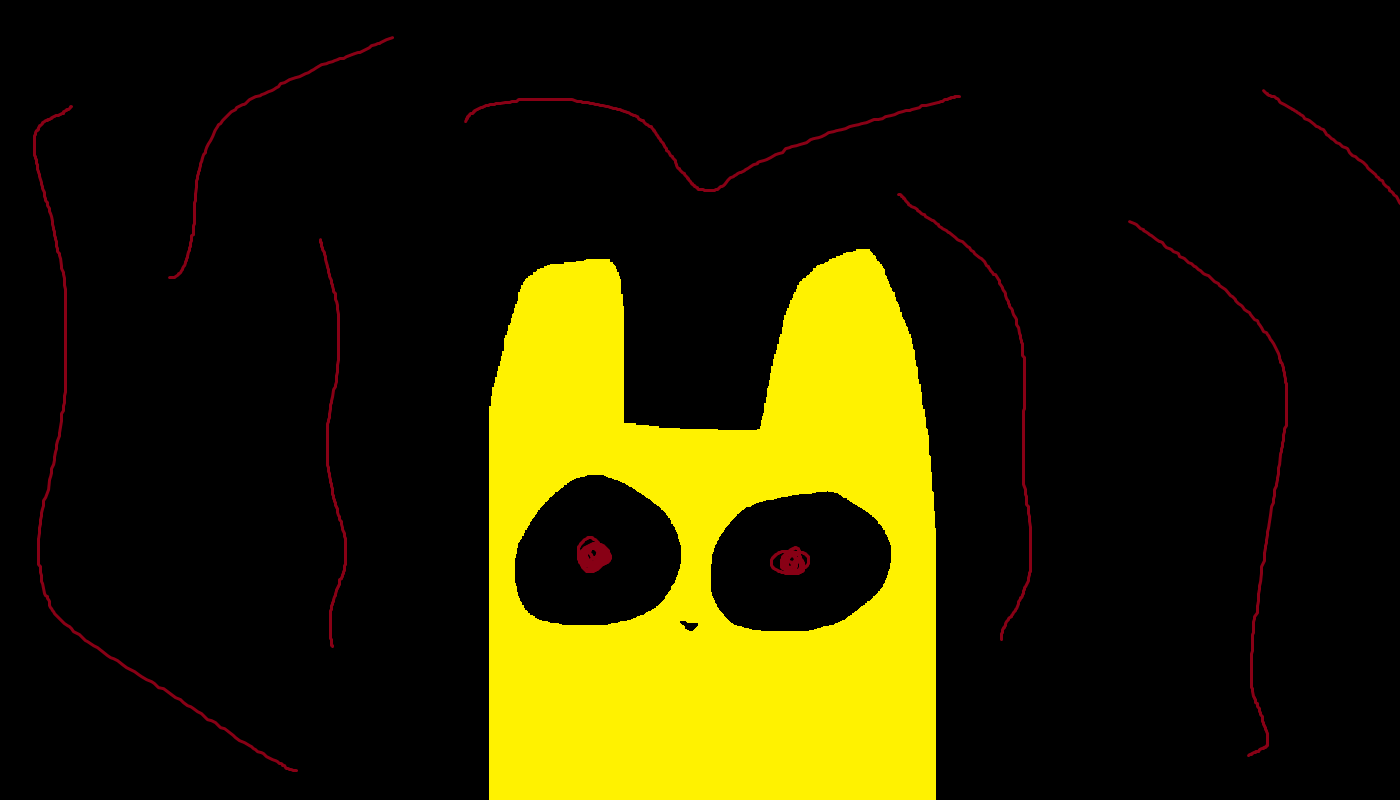
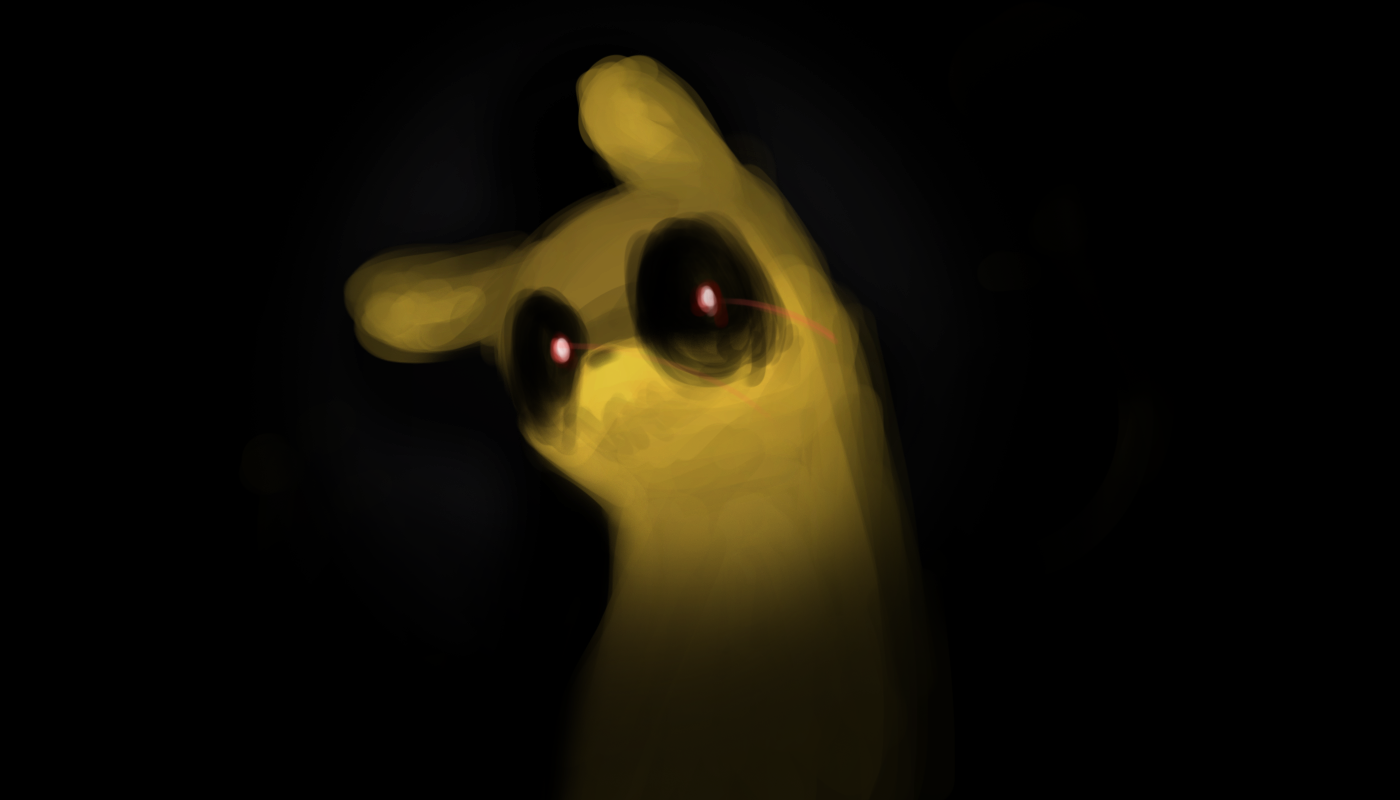
Select screen and jumpscare art

diff --git a/src/Hooks/MenuHooks.cs b/src/Hooks/MenuHooks.cs
@@ -1,0 +1,73 @@
+using System;
+using System.Runtime.CompilerServices;
+using FCAP.Screens;
+using Menu;
+using Mono.Cecil.Cil;
+using MonoMod.Cil;
+using UnityEngine;
+
+namespace FCAP.Hooks
+{
+    internal static class MenuHooks
+    {
+        private static readonly ConditionalWeakTable<InteractiveMenuScene, NightguardMenuController> menuCWT = new();
+
+        public static void Apply()
+        {
+            On.Menu.MenuScene.BuildScene += MenuScene_BuildScene;
+            On.Menu.InteractiveMenuScene.Update += InteractiveMenuScene_Update;
+            On.Menu.MenuScene.UnloadImages += MenuScene_UnloadImages;
+        }
+
+        private static void MenuScene_UnloadImages(On.Menu.MenuScene.orig_UnloadImages orig, MenuScene self)
+        {
+            if (self is InteractiveMenuScene ims && menuCWT.TryGetValue(ims, out _))
+            {
+                menuCWT.Remove(ims);
+            }
+            orig(self);
+        }
+
+        private static void InteractiveMenuScene_Update(On.Menu.InteractiveMenuScene.orig_Update orig, InteractiveMenuScene self)
+        {
+            orig(self);
+            if (menuCWT.TryGetValue(self, out var controller))
+            {
+                controller.Update();
+            }
+        }
+
+        private static void MenuScene_BuildScene(On.Menu.MenuScene.orig_BuildScene orig, MenuScene self)
+        {
+            orig(self);
+
+            Plugin.Logger.LogDebug(self.sceneID?.value);
+            if (self.sceneID == Constants.NightguardMenu)
+            {
+                self.sceneFolder = "scenes/slugcat_nightguard";
+
+                if (self.flatMode)
+                {
+                    self.AddIllustration(new MenuIllustration(self.menu, self, self.sceneFolder, "nightguard flat", new Vector2(683f, 384f), false, true));
+                }
+                else
+                {
+                    var menuController = new NightguardMenuController(self as InteractiveMenuScene);
+                    self.AddIllustration(menuController.Outside = new MenuDepthIllustration(self.menu, self, self.sceneFolder, "nightguard 9", new Vector2(-291f, -190f), 4f, MenuDepthIllustration.MenuShader.Basic));
+                    self.AddIllustration(menuController.AIBody =  new MenuDepthIllustration(self.menu, self, self.sceneFolder, "nightguard 8.5", new Vector2(-291f, -190f), 3.5f, MenuDepthIllustration.MenuShader.Basic));
+                    self.AddIllustration(menuController.AIEyes =  new MenuDepthIllustration(self.menu, self, self.sceneFolder, "nightguard 8", new Vector2(-291f, -190f), 3.45f, MenuDepthIllustration.MenuShader.Basic));
+                    self.AddIllustration(menuController.Inside =  new MenuDepthIllustration(self.menu, self, self.sceneFolder, "nightguard 7", new Vector2(-291f, -190f), 3f, MenuDepthIllustration.MenuShader.Basic));
+                    self.AddIllustration(menuController.Door =    new MenuDepthIllustration(self.menu, self, self.sceneFolder, "nightguard 6", new Vector2(-291f, -190f), 3.1f, MenuDepthIllustration.MenuShader.Basic));
+                    self.AddIllustration(new MenuDepthIllustration(self.menu, self, self.sceneFolder, "nightguard 5", new Vector2(-291f, -190f), 2.6f, MenuDepthIllustration.MenuShader.Basic));
+                    self.AddIllustration(menuController.Slugcat = new MenuDepthIllustration(self.menu, self, self.sceneFolder, "nightguard 4", new Vector2(-291f, -190f), 2.1f, MenuDepthIllustration.MenuShader.Basic));
+                    self.AddIllustration(new MenuDepthIllustration(self.menu, self, self.sceneFolder, "nightguard 3", new Vector2(-291f, -190f), 1.8f, MenuDepthIllustration.MenuShader.Basic));
+                    self.AddIllustration(new MenuDepthIllustration(self.menu, self, self.sceneFolder, "nightguard 2", new Vector2(-291f, -190f), 1.6f, MenuDepthIllustration.MenuShader.Basic));
+                    self.AddIllustration(new MenuDepthIllustration(self.menu, self, self.sceneFolder, "nightguard 1", new Vector2(-291f, -190f), 1.5f, MenuDepthIllustration.MenuShader.Basic));
+
+                    menuCWT.Remove(self as InteractiveMenuScene);
+                    menuCWT.Add(self as InteractiveMenuScene, menuController);
+                }
+            }
+        }
+    }
+}

diff --git a/src/Screens/NightguardMenuController.cs b/src/Screens/NightguardMenuController.cs
@@ -1,0 +1,115 @@
+using Menu;
+using UnityEngine;
+
+namespace FCAP.Screens
+{
+    internal class NightguardMenuController(InteractiveMenuScene owner)
+    {
+        public InteractiveMenuScene owner = owner;
+
+        public MenuDepthIllustration Slugcat;
+        public MenuDepthIllustration Inside;
+        public MenuDepthIllustration Door;
+        public MenuDepthIllustration Outside;
+        public MenuDepthIllustration AIBody;
+        public MenuDepthIllustration AIEyes;
+
+        private int innerFlickerCooldown = Random.Range(10, 40);
+        private bool innerFlickering = false;
+        private bool needToUpdateInnerFlicker = false;
+
+        private int doorFlickerCooldown = Random.Range(10, 40);
+        private int doorFlickerCounter = 0;
+
+        private int outerToggleCooldown = Random.Range(10, 40);
+        private bool outerToggled = true;
+        private bool needToUpdateOuterToggle = false;
+
+
+        public void Update()
+        {
+            // Update state variables
+            if (innerFlickerCooldown > 0)
+            {
+                innerFlickering = false;
+                innerFlickerCooldown--;
+                if (innerFlickerCooldown <= 1)
+                {
+                    needToUpdateInnerFlicker = true;
+                    innerFlickering = true;
+                }
+            }
+            else
+            {
+                needToUpdateInnerFlicker = true;
+                innerFlickering = false;
+                innerFlickerCooldown = Random.Range(10, 120);
+            }
+
+            if (doorFlickerCounter > 0)
+            {
+                doorFlickerCounter--;
+                if (doorFlickerCounter == 0)
+                {
+                    doorFlickerCooldown = Random.Range(15, 80);
+                }
+            }
+            else
+            {
+                doorFlickerCooldown--;
+                if (doorFlickerCooldown <= 0)
+                {
+                    doorFlickerCounter = Random.Range(2, 10);
+                }
+            }
+
+            if (outerToggleCooldown > 0)
+            {
+                outerToggleCooldown--;
+            }
+            else
+            {
+                needToUpdateOuterToggle = true;
+                outerToggled = !outerToggled;
+                if (outerToggled)
+                {
+                    outerToggleCooldown = Random.Range(20, 80);
+                }
+                else
+                {
+                    outerToggleCooldown = Random.Range(40, 120);
+                }
+            }
+
+            // Update graphics
+            if (needToUpdateInnerFlicker)
+            {
+                UpdateImage(Slugcat, "nightguard 4" + (innerFlickering ? " alt" : ""));
+                UpdateImage(Inside, "nightguard 7" + (innerFlickering ? " alt" : ""));
+                needToUpdateInnerFlicker = false;
+            }
+
+            if (doorFlickerCounter > 0)
+            {
+                Door.alpha = Random.Range(0.25f, 0.75f);
+            }
+            else
+            {
+                Door.alpha = 1f;
+            }
+
+            if (needToUpdateOuterToggle)
+            {
+                UpdateImage(Outside, "nightguard 9" + (outerToggled? " alt" : ""));
+                needToUpdateOuterToggle = false;
+            }
+        }
+
+        private void UpdateImage(MenuDepthIllustration image, string fileName)
+        {
+            image.fileName = fileName;
+            image.LoadFile(image.folderName);
+            image.sprite.element = Futile.atlasManager.GetElementWithName(fileName);
+        }
+    }
+}

diff --git a/src/Constants.cs b/src/Constants.cs
@@ -1,4 +1,5 @@
-using OverseerHolograms;
+using Menu;
+using OverseerHolograms;
 
 namespace FCAP
 {
@@ -11,6 +12,7 @@ namespace FCAP
         public static void Register()
         {
             Nightguard ??= new SlugcatStats.Name("Nightguard", false);
+            NightguardMenu ??= new MenuScene.SceneID("Slugcat_Nightguard", false);
 
             CamsHolo ??= new OverseerHologram.Message("FCAPCams", true);
             DoorHolo ??= new OverseerHologram.Message("FCAPDoor", true);
@@ -27,7 +29,8 @@ namespace FCAP
 
         public static void Unregister()
         {
-            Nightguard = null; // we didn't register this so we don't get to unregister it
+            Nightguard = null; // we didn't register these so we don't get to unregister them
+            NightguardMenu = null;
 
             CamsHolo?.Unregister();
             CamsHolo = null;
@@ -63,5 +66,7 @@ namespace FCAP
         public static ProcessManager.ProcessID WeekOverScreen;   // equivalent of the paycheck in fnaf games
 
         public static SoundID JumpscareSound;
+
+        public static MenuScene.SceneID NightguardMenu;
     }
 }

diff --git a/src/Plugin.cs b/src/Plugin.cs
@@ -47,6 +47,7 @@ namespace FCAP
                 GameplayHooks.Apply();
                 GraphicsHooks.Apply();
                 OverseerHooks.Apply();
+                MenuHooks.Apply();
                 ProcessHooks.Apply();
                 PlacedObjectHooks.Apply();
                 RainMeterHooks.Apply();
